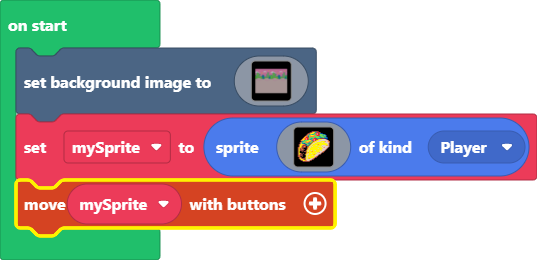
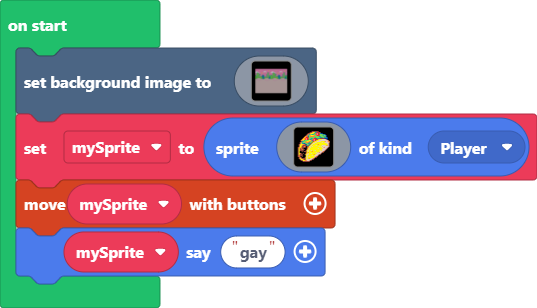
Update main.blocks, main.ts

diff --git a/main.ts b/main.ts
@@ -155,3 +155,4 @@ let mySprite = sprites.create(img`
     ................................
     `, SpriteKind.Player)
 controller.moveSprite(mySprite)
+mySprite.sayText("gay")
